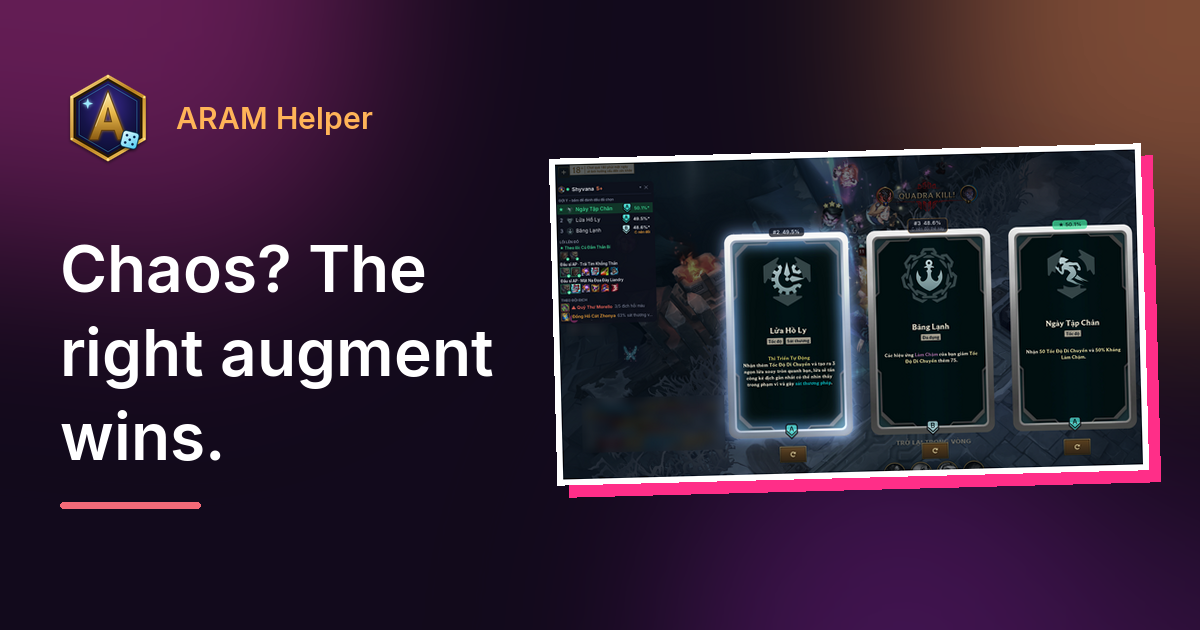
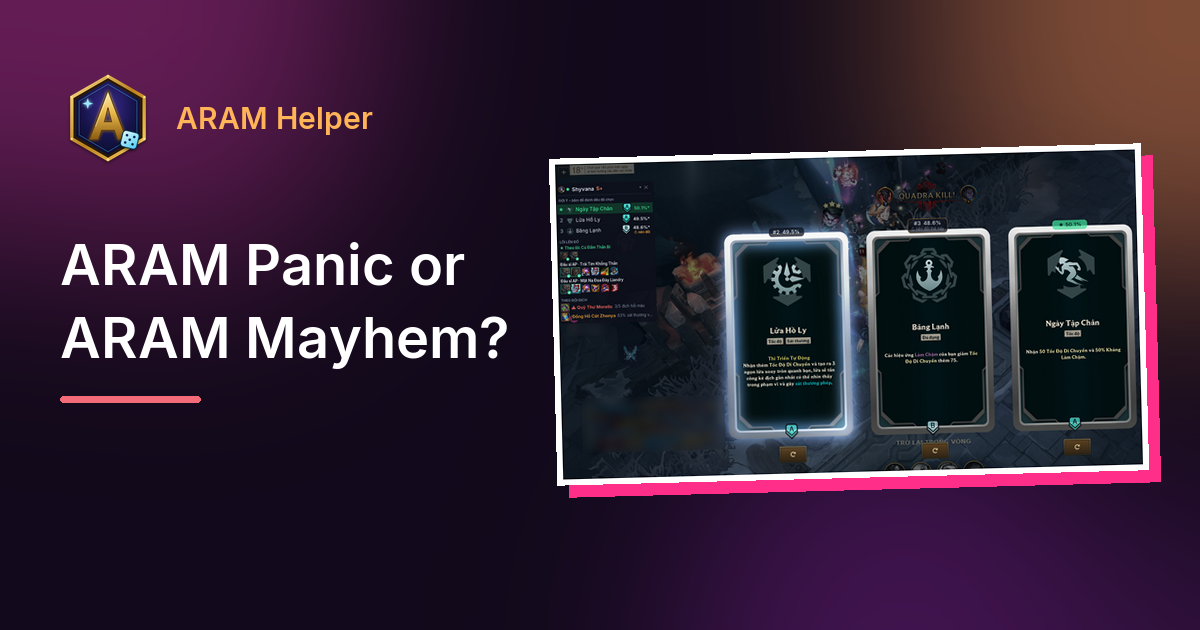
site: sync from dev 095b78d

Changed region(s): [[0.0308, 0.3619, 0.4317, 0.754], [0.0308, 0.7841, 0.185, 0.8143]]

diff --git a/site/index.html b/site/index.html
@@ -4,7 +4,7 @@
 <meta charset="utf-8">
 <meta name="viewport" content="width=device-width, initial-scale=1">
 <title>ARAM Helper – Gợi ý lõi và trang bị cho ARAM Hỗn Loạn</title>
-<meta name="description" content="ARAM Helper tự nhận tướng, tự đọc 3 lõi trên màn hình và gợi ý lõi + trang bị ngay trong game ARAM Hỗn Loạn. Miễn phí, chỉ xem không can thiệp, không cần đăng nhập.">
+<meta name="description" content="ARAM Helper tự nhận tướng, tự đọc các lõi trên màn hình và gợi ý lõi + trang bị ngay trong game ARAM Hỗn Loạn. Miễn phí, chỉ xem không can thiệp, không cần đăng nhập.">
 <meta name="keywords" content="ARAM Mayhem augment helper, lõi ARAM Hỗn Loạn, lõi ARAM, gợi ý lõi, ARAM Helper, augment, overlay">
 <meta name="theme-color" content="#120a1c">
 <link rel="canonical" href="https://aramhelper.com/">
@@ -14,18 +14,18 @@
 <link rel="icon" type="image/png" href="assets/img/icon.png">
 <meta property="og:type" content="website">
 <meta property="og:site_name" content="ARAM Helper">
-<meta property="og:title" content="ARAM Helper – Hỗn loạn? Có lõi xịn là thắng.">
-<meta property="og:description" content="Tự đọc 3 lõi trên màn hình, gợi ý lõi + trang bị ngay trong game ARAM Hỗn Loạn. Miễn phí, chỉ xem không can thiệp, không cần đăng nhập.">
+<meta property="og:title" content="ARAM Helper – ARAM Hoảng Loạn hay Hỗn Loạn? Đừng lo, tôi sẽ giúp bạn chọn lõi.">
+<meta property="og:description" content="Tự đọc các lõi trên màn hình, gợi ý lõi + trang bị ngay trong game ARAM Hỗn Loạn. Miễn phí, chỉ xem không can thiệp, không cần đăng nhập.">
 <meta property="og:url" content="https://aramhelper.com/">
 <meta property="og:image" content="https://aramhelper.com/assets/img/og-vi.png">
 <meta property="og:locale" content="vi_VN">
 <meta name="twitter:card" content="summary_large_image">
-<meta name="twitter:title" content="ARAM Helper – Hỗn loạn? Có lõi xịn là thắng.">
-<meta name="twitter:description" content="Tự đọc 3 lõi trên màn hình, gợi ý lõi + trang bị ngay trong game ARAM Hỗn Loạn. Miễn phí, chỉ xem không can thiệp, không cần đăng nhập.">
+<meta name="twitter:title" content="ARAM Helper – ARAM Hoảng Loạn hay Hỗn Loạn? Đừng lo, tôi sẽ giúp bạn chọn lõi.">
+<meta name="twitter:description" content="Tự đọc các lõi trên màn hình, gợi ý lõi + trang bị ngay trong game ARAM Hỗn Loạn. Miễn phí, chỉ xem không can thiệp, không cần đăng nhập.">
 <meta name="twitter:image" content="https://aramhelper.com/assets/img/og-vi.png">
 <link rel="preload" href="assets/fonts/InterDisplay-ExtraBold.woff2" as="font" type="font/woff2" crossorigin>
-<link rel="stylesheet" href="assets/style.css?v=8edf6a30">
-<script type="module" src="assets/app.mjs?v=8edf6a30"></script>
+<link rel="stylesheet" href="assets/style.css?v=0f0a29ba">
+<script type="module" src="assets/app.mjs?v=0f0a29ba"></script>
 </head>
 <body data-lang="vi">
 <div class="scroll-progress" aria-hidden="true"></div>
@@ -47,8 +47,8 @@
 <section id="hero" class="hero glow">
   <div class="hero-fx" aria-hidden="true"><span class="blob b1"></span><span class="blob b2"></span><span class="blob b3"></span><div class="floor"></div><canvas id="sparks"></canvas></div>
   <p class="badge"><span class="dot"></span>Dành cho ARAM Hỗn Loạn</p>
-  <h1>Hỗn loạn? Có lõi xịn là thắng.</h1>
-  <p class="lead">Trợ lý ARAM Hỗn Loạn cho Liên Minh Huyền Thoại: tự nhận tướng, tự đọc 3 lõi đang được đưa ra và chấm tier <b>S+ → D</b> ngay trên từng thẻ. Bạn chỉ việc bấm chọn.</p>
+  <h1>ARAM Hoảng Loạn hay Hỗn Loạn?<span class="h1-sub">Đừng lo, tôi sẽ giúp bạn chọn lõi.</span></h1>
+  <p class="lead">Trợ lý ARAM Hỗn Loạn cho Liên Minh Huyền Thoại: tự nhận tướng, tự đọc các lõi đang được đưa ra và chấm tier <b>S+ → D</b> ngay trên từng thẻ. Bạn chỉ việc bấm chọn.</p>
   <ul class="hero-points">
     <li><svg class="tick" viewBox="0 0 24 24" aria-hidden="true" focusable="false"><path d="M20 6 9 17l-5-5"/></svg>Miễn phí 100%</li><li><svg class="tick" viewBox="0 0 24 24" aria-hidden="true" focusable="false"><path d="M20 6 9 17l-5-5"/></svg>Không cần đăng nhập</li><li><svg class="tick" viewBox="0 0 24 24" aria-hidden="true" focusable="false"><path d="M20 6 9 17l-5-5"/></svg>Nhẹ ~80 MB RAM</li><li><svg class="tick" viewBox="0 0 24 24" aria-hidden="true" focusable="false"><path d="M20 6 9 17l-5-5"/></svg>Tiếng Việt | English</li>
   </ul>
@@ -60,11 +60,11 @@
   <img class="shot hero-shot zoomable" fetchpriority="high" src="assets/img/overlay-ingame.webp" srcset="assets/img/overlay-ingame-800.webp 800w, assets/img/overlay-ingame.webp 1500w" sizes="(min-width: 1000px) 640px, 100vw" alt="Overlay của ARAM Helper trong một trận ARAM Hỗn Loạn thật: nhãn % trên thẻ, huy hiệu tier, khung gợi ý" width="1500" height="814">
 </section>
 
-<div class="ticker" aria-hidden="true"><div class="ticker-track"><span>Tự nhận tướng · Tự đọc 3 lõi · Tier S+ → D trên thẻ · Combo lõi kèm lý do · Gợi ý đồ khắc chế · Gợi ý ở màn chọn tướng · Overlay trong suốt</span><span>Tự nhận tướng · Tự đọc 3 lõi · Tier S+ → D trên thẻ · Combo lõi kèm lý do · Gợi ý đồ khắc chế · Gợi ý ở màn chọn tướng · Overlay trong suốt</span></div></div>
+<div class="ticker" aria-hidden="true"><div class="ticker-track"><span>Tự nhận tướng · Tự đọc các lõi · Tier S+ → D trên thẻ · Combo lõi kèm lý do · Gợi ý đồ khắc chế · Gợi ý ở màn chọn tướng · Overlay trong suốt</span><span>Tự nhận tướng · Tự đọc các lõi · Tier S+ → D trên thẻ · Combo lõi kèm lý do · Gợi ý đồ khắc chế · Gợi ý ở màn chọn tướng · Overlay trong suốt</span></div></div>
 
 <section id="highlights" class="highlights">
   <h2>Chọn lõi trong 3 giây, không cần tra cứu</h2>
-  <p class="section-sub">Mọi thứ bạn cần để quyết định nằm ngay trên màn hình game, đúng lúc 3 thẻ lõi hiện ra.</p>
+  <p class="section-sub">Mọi thứ bạn cần để quyết định nằm ngay trên màn hình game, đúng lúc các thẻ lõi hiện ra.</p>
   <div class="hl-grid">
     <div class="box hl"><svg class="ico" viewBox="0 0 24 24" aria-hidden="true" focusable="false"><path d="M13 2 3 14h9l-1 8 10-12h-9l1-8z"/></svg><span class="hl-k">Tự động</span><b>Không phải gõ tìm gì</b><p>Vào trận là app nhận tướng; thẻ lõi hiện ra là app tự đọc, kể cả lõi dùng chung icon.</p></div>
     <div class="box hl"><svg class="ico" viewBox="0 0 24 24" aria-hidden="true" focusable="false"><circle cx="12" cy="8" r="6"/><path d="M15.5 13.5 17 22l-5-3-5 3 1.5-8.5"/></svg><span class="hl-k">S+ → D</span><b>Tier ngay dưới từng thẻ</b><p>Huy hiệu tier theo màu và % thắng trên mỗi thẻ; lõi nên chọn được đánh dấu ★.</p></div>
@@ -77,7 +77,7 @@
   <h2>3 bước, không cần chỉnh gì</h2>
   <ol class="steps">
     <li class="box step"><i aria-hidden="true">1</i><div><b>Vào trận</b>App tự nhận tướng bạn đang chơi.</div></li>
-    <li class="box step"><i aria-hidden="true">2</i><div><b>3 lõi hiện ra</b>App tự đọc lõi trên màn hình.</div></li>
+    <li class="box step"><i aria-hidden="true">2</i><div><b>Các lõi hiện ra</b>App tự đọc lõi trên màn hình.</div></li>
     <li class="box step"><i aria-hidden="true">3</i><div><b>Chọn lõi mạnh nhất</b>Overlay đánh dấu lõi nên chọn, kèm tier S+ → D ngay dưới thẻ. Bấm chọn là gợi ý tắt ngay.</div></li>
   </ol>
 </section>
@@ -89,10 +89,10 @@
     <div class="frow-text">
       <span class="chip">Overlay</span>
       <h3>Gợi ý nằm ngay trên thẻ lõi</h3>
-      <p>Overlay trong suốt, mép mịn, đặt đúng lên 3 thẻ lõi của game. Không che thông tin, không giành phím của game.</p>
+      <p>Overlay trong suốt, mép mịn, đặt đúng lên các thẻ lõi của game. Không che thông tin, không giành phím của game.</p>
       <ul class="checks"><li><svg class="tick" viewBox="0 0 24 24" aria-hidden="true" focusable="false"><path d="M20 6 9 17l-5-5"/></svg>Nhãn % thắng và huy hiệu tier S+ → D trên từng thẻ</li><li><svg class="tick" viewBox="0 0 24 24" aria-hidden="true" focusable="false"><path d="M20 6 9 17l-5-5"/></svg>Thanh combo ngay phía trên các thẻ</li><li><svg class="tick" viewBox="0 0 24 24" aria-hidden="true" focusable="false"><path d="M20 6 9 17l-5-5"/></svg>Bấm chọn lõi là gợi ý tắt ngay (~0,1 giây)</li></ul>
     </div>
-    <figure class="frow-media"><img class="shot zoomable" src="assets/img/overlay-combo.webp" alt="Overlay trên 3 thẻ lõi: % thắng, huy hiệu tier và thanh combo" width="1200" height="714" loading="lazy"></figure>
+    <figure class="frow-media"><img class="shot zoomable" src="assets/img/overlay-combo.webp" alt="Overlay trên các thẻ lõi: % thắng, huy hiệu tier và thanh combo" width="1200" height="714" loading="lazy"></figure>
   </article>
   <article class="frow">
     <div class="frow-text">

diff --git a/site/en/index.html b/site/en/index.html
@@ -4,7 +4,7 @@
 <meta charset="utf-8">
 <meta name="viewport" content="width=device-width, initial-scale=1">
 <title>ARAM Helper – Augment and item picks for ARAM Mayhem</title>
-<meta name="description" content="ARAM Helper detects your champion, reads the 3 augments on screen and recommends augments + items right in the game, for ARAM Mayhem. Free, read-only, no login.">
+<meta name="description" content="ARAM Helper detects your champion, reads the augments on screen and recommends augments + items right in the game, for ARAM Mayhem. Free, read-only, no login.">
 <meta name="keywords" content="ARAM Mayhem augment helper, ARAM Mayhem augments, ARAM augment tier list, augment overlay, ARAM Helper, LoL ARAM">
 <meta name="theme-color" content="#120a1c">
 <link rel="canonical" href="https://aramhelper.com/en/">
@@ -14,18 +14,18 @@
 <link rel="icon" type="image/png" href="../assets/img/icon.png">
 <meta property="og:type" content="website">
 <meta property="og:site_name" content="ARAM Helper">
-<meta property="og:title" content="ARAM Helper – Chaos? Pick the right augment and win.">
-<meta property="og:description" content="Reads your 3 augments on screen and recommends augments + items in-game for ARAM Mayhem. Free, read-only, no login.">
+<meta property="og:title" content="ARAM Helper – ARAM Panic or ARAM Mayhem? Relax, I'll help you pick your augments.">
+<meta property="og:description" content="Reads your augments on screen and recommends augments + items in-game for ARAM Mayhem. Free, read-only, no login.">
 <meta property="og:url" content="https://aramhelper.com/en/">
 <meta property="og:image" content="https://aramhelper.com/assets/img/og-en.png">
 <meta property="og:locale" content="en_US">
 <meta name="twitter:card" content="summary_large_image">
-<meta name="twitter:title" content="ARAM Helper – Chaos? Pick the right augment and win.">
-<meta name="twitter:description" content="Reads your 3 augments on screen and recommends augments + items in-game for ARAM Mayhem. Free, read-only, no login.">
+<meta name="twitter:title" content="ARAM Helper – ARAM Panic or ARAM Mayhem? Relax, I'll help you pick your augments.">
+<meta name="twitter:description" content="Reads your augments on screen and recommends augments + items in-game for ARAM Mayhem. Free, read-only, no login.">
 <meta name="twitter:image" content="https://aramhelper.com/assets/img/og-en.png">
 <link rel="preload" href="../assets/fonts/InterDisplay-ExtraBold.woff2" as="font" type="font/woff2" crossorigin>
-<link rel="stylesheet" href="../assets/style.css?v=8edf6a30">
-<script type="module" src="../assets/app.mjs?v=8edf6a30"></script>
+<link rel="stylesheet" href="../assets/style.css?v=0f0a29ba">
+<script type="module" src="../assets/app.mjs?v=0f0a29ba"></script>
 </head>
 <body data-lang="en">
 <div class="scroll-progress" aria-hidden="true"></div>
@@ -47,8 +47,8 @@
 <section id="hero" class="hero glow">
   <div class="hero-fx" aria-hidden="true"><span class="blob b1"></span><span class="blob b2"></span><span class="blob b3"></span><div class="floor"></div><canvas id="sparks"></canvas></div>
   <p class="badge"><span class="dot"></span>Built for ARAM Mayhem</p>
-  <h1>Chaos? The right augment wins.</h1>
-  <p class="lead">Your ARAM Mayhem sidekick for League of Legends: it detects your champion, reads the 3 augments on offer and rates each one <b>S+ → D</b> right on the card. You just click.</p>
+  <h1>ARAM Panic or ARAM Mayhem?<span class="h1-sub">Relax, I'll help you pick your augments.</span></h1>
+  <p class="lead">Your ARAM Mayhem sidekick for League of Legends: it detects your champion, reads the augments on offer and rates each one <b>S+ → D</b> right on the card. You just click.</p>
   <ul class="hero-points">
     <li><svg class="tick" viewBox="0 0 24 24" aria-hidden="true" focusable="false"><path d="M20 6 9 17l-5-5"/></svg>100% free</li><li><svg class="tick" viewBox="0 0 24 24" aria-hidden="true" focusable="false"><path d="M20 6 9 17l-5-5"/></svg>No login</li><li><svg class="tick" viewBox="0 0 24 24" aria-hidden="true" focusable="false"><path d="M20 6 9 17l-5-5"/></svg>Light, ~80 MB RAM</li><li><svg class="tick" viewBox="0 0 24 24" aria-hidden="true" focusable="false"><path d="M20 6 9 17l-5-5"/></svg>English | Tiếng Việt</li>
   </ul>
@@ -60,11 +60,11 @@
   <img class="shot hero-shot zoomable" fetchpriority="high" src="../assets/img/overlay-ingame.webp" srcset="../assets/img/overlay-ingame-800.webp 800w, ../assets/img/overlay-ingame.webp 1500w" sizes="(min-width: 1000px) 640px, 100vw" alt="ARAM Helper overlay in a real ARAM Mayhem game: win rates on the cards, tier badges and the suggestion panel" width="1500" height="814">
 </section>
 
-<div class="ticker" aria-hidden="true"><div class="ticker-track"><span>Auto champion detect · Reads all 3 augments · S+ → D tier on every card · Augment combos with reasons · Counter-item tips · Champ select advice · Transparent overlay</span><span>Auto champion detect · Reads all 3 augments · S+ → D tier on every card · Augment combos with reasons · Counter-item tips · Champ select advice · Transparent overlay</span></div></div>
+<div class="ticker" aria-hidden="true"><div class="ticker-track"><span>Auto champion detect · Reads every augment · S+ → D tier on every card · Augment combos with reasons · Counter-item tips · Champ select advice · Transparent overlay</span><span>Auto champion detect · Reads every augment · S+ → D tier on every card · Augment combos with reasons · Counter-item tips · Champ select advice · Transparent overlay</span></div></div>
 
 <section id="highlights" class="highlights">
   <h2>Pick augments in 3 seconds, no tabbing out</h2>
-  <p class="section-sub">Everything you need to decide sits on your game screen the moment the 3 augment cards appear.</p>
+  <p class="section-sub">Everything you need to decide sits on your game screen the moment the augment cards appear.</p>
   <div class="hl-grid">
     <div class="box hl"><svg class="ico" viewBox="0 0 24 24" aria-hidden="true" focusable="false"><path d="M13 2 3 14h9l-1 8 10-12h-9l1-8z"/></svg><span class="hl-k">Automatic</span><b>Nothing to type</b><p>It detects your champion when the game starts and reads the cards as they appear, even augments that share an icon.</p></div>
     <div class="box hl"><svg class="ico" viewBox="0 0 24 24" aria-hidden="true" focusable="false"><circle cx="12" cy="8" r="6"/><path d="M15.5 13.5 17 22l-5-3-5 3 1.5-8.5"/></svg><span class="hl-k">S+ → D</span><b>A tier under every card</b><p>A colour-coded tier badge and win rate on each card; the pick to take gets a ★.</p></div>
@@ -77,7 +77,7 @@
   <h2>3 steps, zero setup</h2>
   <ol class="steps">
     <li class="box step"><i aria-hidden="true">1</i><div><b>Start a match</b>The app detects the champion you are playing.</div></li>
-    <li class="box step"><i aria-hidden="true">2</i><div><b>3 augments appear</b>The app reads them straight from your screen.</div></li>
+    <li class="box step"><i aria-hidden="true">2</i><div><b>Augments appear</b>The app reads them straight from your screen.</div></li>
     <li class="box step"><i aria-hidden="true">3</i><div><b>Pick the strongest</b>The overlay marks the augment to pick, with its S+ → D tier right under the card. Click a card and the hint disappears at once.</div></li>
   </ol>
 </section>
@@ -89,10 +89,10 @@
     <div class="frow-text">
       <span class="chip">Overlay</span>
       <h3>Advice right on the augment cards</h3>
-      <p>A smooth, transparent overlay placed exactly on the game's 3 augment cards. It hides nothing and never steals your keys from the game.</p>
+      <p>A smooth, transparent overlay placed exactly on the game's augment cards. It hides nothing and never steals your keys from the game.</p>
       <ul class="checks"><li><svg class="tick" viewBox="0 0 24 24" aria-hidden="true" focusable="false"><path d="M20 6 9 17l-5-5"/></svg>Win rate label and S+ → D tier badge on every card</li><li><svg class="tick" viewBox="0 0 24 24" aria-hidden="true" focusable="false"><path d="M20 6 9 17l-5-5"/></svg>Combo bar right above the cards</li><li><svg class="tick" viewBox="0 0 24 24" aria-hidden="true" focusable="false"><path d="M20 6 9 17l-5-5"/></svg>Pick a card and the hint disappears at once (~0.1 s)</li></ul>
     </div>
-    <figure class="frow-media"><img class="shot zoomable" src="../assets/img/overlay-combo.webp" alt="Overlay on the 3 augment cards: win rates, tier badges and the combo bar" width="1200" height="714" loading="lazy"></figure>
+    <figure class="frow-media"><img class="shot zoomable" src="../assets/img/overlay-combo.webp" alt="Overlay on the augment cards: win rates, tier badges and the combo bar" width="1200" height="714" loading="lazy"></figure>
   </article>
   <article class="frow">
     <div class="frow-text">

diff --git a/site/assets/style.css b/site/assets/style.css
@@ -84,7 +84,7 @@ h1, h2 {
 }
 h1 {
   width: fit-content;
-  max-width: 14ch;
+  max-width: 16ch;
   padding-top: .12em;                 /* room for stacked Vietnamese marks inside the gradient clip */
   font-size: clamp(2.3rem, 1.4rem + 3.8vw, 3.75rem);
   line-height: 1.08;
@@ -561,6 +561,9 @@ main > section + section { border-top: 1px solid #ffffff0d; }
 /* Headline: slow sunset shimmer + warm glow */
 h1 { animation: shimmer 10s linear infinite; filter: drop-shadow(0 4px 24px #f36a7840); }
 @keyframes shimmer { to { background-position: -200% 0; } }
+/* Second headline line: same sunset gradient, smaller */
+.hero h1 { max-width: none; font-size: clamp(2.1rem, 1.2rem + 3vw, 3.25rem); text-wrap: wrap; }   /* two-phrase headline: one phrase per line */
+h1 .h1-sub { display: block; margin-top: .4em; font-size: .52em; line-height: 1.2; letter-spacing: -.01em; }
 
 /* Hero screenshot floats; JS adds a 3D tilt */
 .hero-shot {

diff --git a/site/changelog.html b/site/changelog.html
@@ -7,7 +7,7 @@
 <meta name="description" content="Lịch sử các phiên bản của ARAM Helper, bản mới nhất ở trên cùng.">
 <meta name="robots" content="noindex">
 <link rel="icon" type="image/png" href="assets/img/icon.png">
-<link rel="stylesheet" href="assets/style.css?v=8edf6a30">
+<link rel="stylesheet" href="assets/style.css?v=0f0a29ba">
 </head>
 <body data-lang="vi" class="changelog-page">
 <header class="site-nav">

diff --git a/site/en/changelog.html b/site/en/changelog.html
@@ -7,7 +7,7 @@
 <meta name="description" content="Version history of ARAM Helper, newest first.">
 <meta name="robots" content="noindex">
 <link rel="icon" type="image/png" href="../assets/img/icon.png">
-<link rel="stylesheet" href="../assets/style.css?v=8edf6a30">
+<link rel="stylesheet" href="../assets/style.css?v=0f0a29ba">
 </head>
 <body data-lang="en" class="changelog-page">
 <header class="site-nav">
